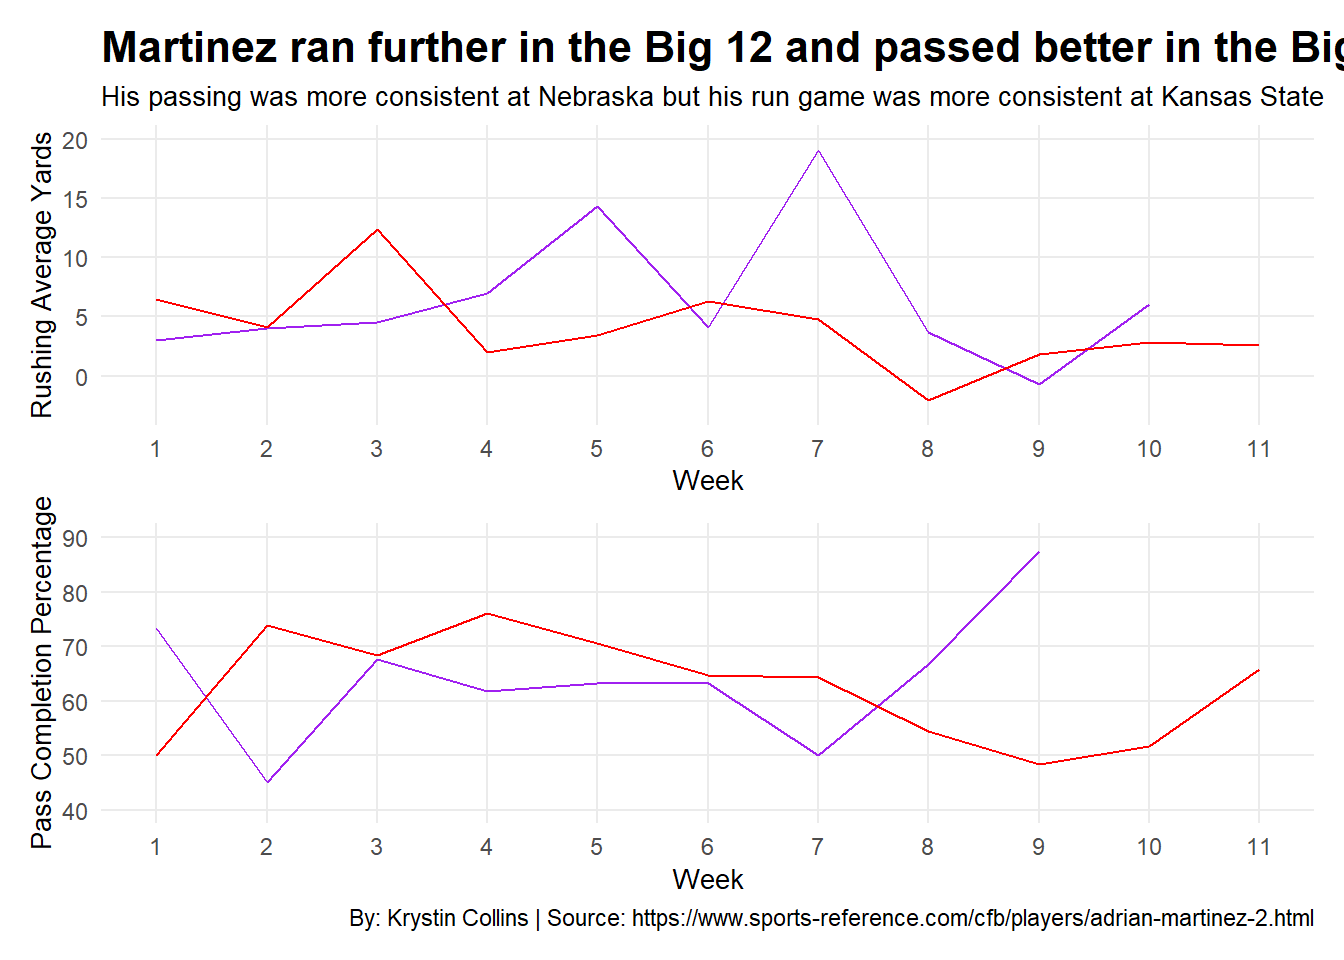
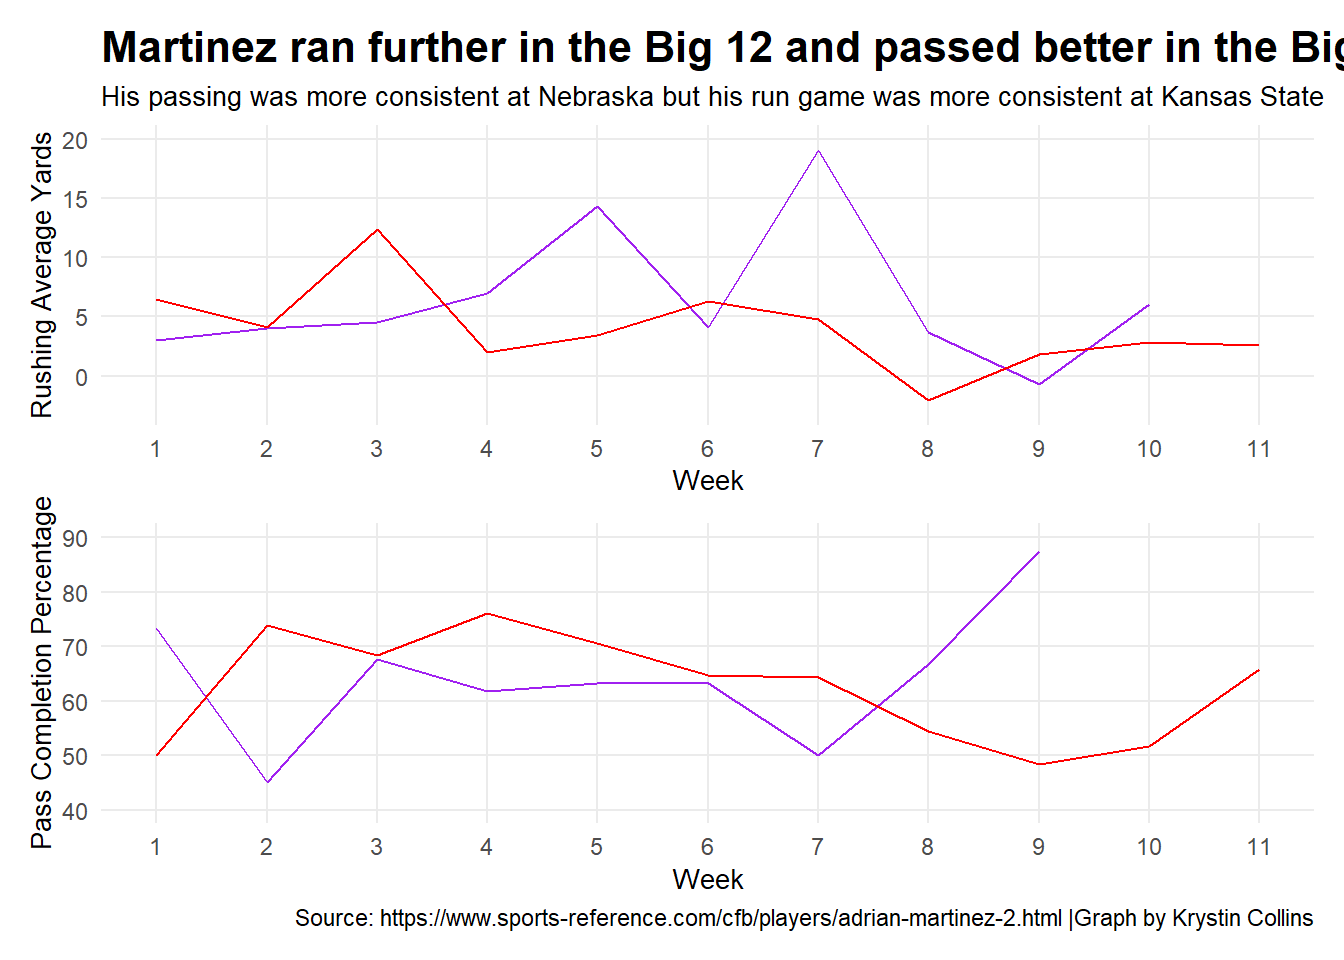
graph change

Changed region(s): [[0.2188, 0.9375, 1.0, 0.9688]]

diff --git a/posts/adrians-move-from-nebraska/index.html b/posts/adrians-move-from-nebraska/index.html
@@ -219,7 +219,7 @@ pre > code.sourceCode > span > a:first-child::before { text-decoration: underlin
 <span id="cb1-19"><a href="#cb1-19" aria-hidden="true" tabindex="-1"></a>  <span class="fu">theme_minimal</span>() <span class="sc">+</span></span>
 <span id="cb1-20"><a href="#cb1-20" aria-hidden="true" tabindex="-1"></a>  <span class="fu">labs</span>(</span>
 <span id="cb1-21"><a href="#cb1-21" aria-hidden="true" tabindex="-1"></a>    <span class="at">x =</span> <span class="st">"Week"</span>, <span class="at">y =</span> <span class="st">"Pass Completion Percentage"</span>,</span>
-<span id="cb1-22"><a href="#cb1-22" aria-hidden="true" tabindex="-1"></a>    <span class="at">caption =</span> <span class="st">"By: Krystin Collins | Source: https://www.sports-reference.com/cfb/players/adrian-martinez-2.html"</span></span>
+<span id="cb1-22"><a href="#cb1-22" aria-hidden="true" tabindex="-1"></a>    <span class="at">caption =</span> <span class="st">"Source: https://www.sports-reference.com/cfb/players/adrian-martinez-2.html |Graph by Krystin Collins"</span></span>
 <span id="cb1-23"><a href="#cb1-23" aria-hidden="true" tabindex="-1"></a>  ) <span class="sc">+</span></span>
 <span id="cb1-24"><a href="#cb1-24" aria-hidden="true" tabindex="-1"></a>  <span class="fu">theme_minimal</span>() <span class="sc">+</span></span>
 <span id="cb1-25"><a href="#cb1-25" aria-hidden="true" tabindex="-1"></a>  <span class="fu">theme</span>(</span>
@@ -305,17 +305,18 @@ pre > code.sourceCode > span > a:first-child::before { text-decoration: underlin
 <span id="cb2-40"><a href="#cb2-40" aria-hidden="true" tabindex="-1"></a>  <span class="fu">coord_flip</span>() <span class="sc">+</span></span>
 <span id="cb2-41"><a href="#cb2-41" aria-hidden="true" tabindex="-1"></a>  <span class="fu">labs</span>(</span>
 <span id="cb2-42"><a href="#cb2-42" aria-hidden="true" tabindex="-1"></a>    <span class="at">x =</span> <span class="st">"Opponent"</span>, </span>
-<span id="cb2-43"><a href="#cb2-43" aria-hidden="true" tabindex="-1"></a>    <span class="at">y =</span> <span class="st">"Rushing Yards"</span></span>
-<span id="cb2-44"><a href="#cb2-44" aria-hidden="true" tabindex="-1"></a>  ) <span class="sc">+</span>  </span>
-<span id="cb2-45"><a href="#cb2-45" aria-hidden="true" tabindex="-1"></a>  <span class="fu">theme_minimal</span>() <span class="sc">+</span></span>
-<span id="cb2-46"><a href="#cb2-46" aria-hidden="true" tabindex="-1"></a>  <span class="fu">theme</span>(</span>
-<span id="cb2-47"><a href="#cb2-47" aria-hidden="true" tabindex="-1"></a>    <span class="at">plot.title =</span> <span class="fu">element_text</span>(<span class="at">size =</span> <span class="dv">16</span>, <span class="at">face =</span> <span class="st">"bold"</span>),</span>
-<span id="cb2-48"><a href="#cb2-48" aria-hidden="true" tabindex="-1"></a>    <span class="at">plot.subtitle =</span> <span class="fu">element_text</span>(<span class="at">size =</span> <span class="dv">10</span>),</span>
-<span id="cb2-49"><a href="#cb2-49" aria-hidden="true" tabindex="-1"></a>    <span class="at">axis.title =</span> <span class="fu">element_text</span>(<span class="at">size =</span> <span class="dv">10</span>),</span>
-<span id="cb2-50"><a href="#cb2-50" aria-hidden="true" tabindex="-1"></a>    <span class="at">panel.grid.minor =</span> <span class="fu">element_blank</span>()</span>
-<span id="cb2-51"><a href="#cb2-51" aria-hidden="true" tabindex="-1"></a>  )</span>
-<span id="cb2-52"><a href="#cb2-52" aria-hidden="true" tabindex="-1"></a></span>
-<span id="cb2-53"><a href="#cb2-53" aria-hidden="true" tabindex="-1"></a>(passingbar <span class="sc">/</span> rushingbar)</span></code><button title="Copy to Clipboard" class="code-copy-button"><i class="bi"></i></button></pre></div>
+<span id="cb2-43"><a href="#cb2-43" aria-hidden="true" tabindex="-1"></a>    <span class="at">y =</span> <span class="st">"Rushing Yards"</span>,</span>
+<span id="cb2-44"><a href="#cb2-44" aria-hidden="true" tabindex="-1"></a>    <span class="at">caption =</span> <span class="st">"Source: https://www.sports-reference.com/cfb/| Graph by Krystin Collins"</span></span>
+<span id="cb2-45"><a href="#cb2-45" aria-hidden="true" tabindex="-1"></a>  ) <span class="sc">+</span>  </span>
+<span id="cb2-46"><a href="#cb2-46" aria-hidden="true" tabindex="-1"></a>  <span class="fu">theme_minimal</span>() <span class="sc">+</span></span>
+<span id="cb2-47"><a href="#cb2-47" aria-hidden="true" tabindex="-1"></a>  <span class="fu">theme</span>(</span>
+<span id="cb2-48"><a href="#cb2-48" aria-hidden="true" tabindex="-1"></a>    <span class="at">plot.title =</span> <span class="fu">element_text</span>(<span class="at">size =</span> <span class="dv">16</span>, <span class="at">face =</span> <span class="st">"bold"</span>),</span>
+<span id="cb2-49"><a href="#cb2-49" aria-hidden="true" tabindex="-1"></a>    <span class="at">plot.subtitle =</span> <span class="fu">element_text</span>(<span class="at">size =</span> <span class="dv">10</span>),</span>
+<span id="cb2-50"><a href="#cb2-50" aria-hidden="true" tabindex="-1"></a>    <span class="at">axis.title =</span> <span class="fu">element_text</span>(<span class="at">size =</span> <span class="dv">10</span>),</span>
+<span id="cb2-51"><a href="#cb2-51" aria-hidden="true" tabindex="-1"></a>    <span class="at">panel.grid.minor =</span> <span class="fu">element_blank</span>()</span>
+<span id="cb2-52"><a href="#cb2-52" aria-hidden="true" tabindex="-1"></a>  )</span>
+<span id="cb2-53"><a href="#cb2-53" aria-hidden="true" tabindex="-1"></a></span>
+<span id="cb2-54"><a href="#cb2-54" aria-hidden="true" tabindex="-1"></a>(passingbar <span class="sc">/</span> rushingbar)</span></code><button title="Copy to Clipboard" class="code-copy-button"><i class="bi"></i></button></pre></div>
 </details>
 <div class="cell-output-display">
 <div>

diff --git a/index.html b/index.html
@@ -210,7 +210,7 @@ window.Quarto = {
 
 <div class="quarto-listing quarto-listing-container-default" id="listing-listing">
 <div class="list quarto-listing-default">
-<div class="quarto-post image-right" data-index="0" data-categories="Zm9vdGJhbGw=" data-listing-date-sort="1731823200000" data-listing-file-modified-sort="1731697880785" data-listing-date-modified-sort="NaN" data-listing-reading-time-sort="5" data-listing-word-count-sort="951">
+<div class="quarto-post image-right" data-index="0" data-categories="Zm9vdGJhbGw=" data-listing-date-sort="1731823200000" data-listing-file-modified-sort="1731698271867" data-listing-date-modified-sort="NaN" data-listing-reading-time-sort="5" data-listing-word-count-sort="962">
 <div class="thumbnail">
 <p><a href="./posts/adrians-move-from-nebraska/index.html" class="no-external"></a></p><a href="./posts/adrians-move-from-nebraska/index.html" class="no-external">
 <p class="card-img-top"><img src="posts\adrians-move-from-nebraska\index_files\figure-html\unnamed-chunk-1-1.png"  class="thumbnail-image card-img"/></p>
